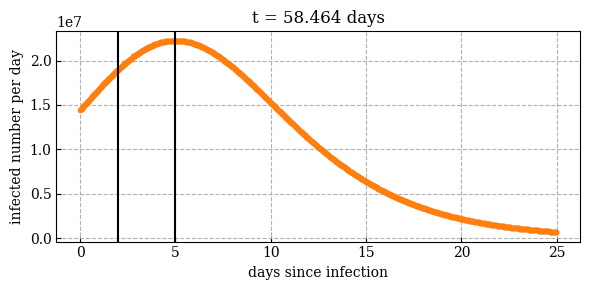
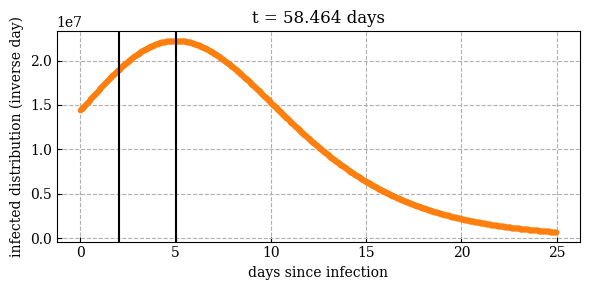
update plot label

diff --git a/plot.py b/plot.py
@@ -54,7 +54,7 @@ for fnum in range(200):
 	ax.axvline(contag_t0, color="black")
 	ax.axvline(contag_t1, color="black")
 	ax.set_xlabel("days since infection")
-	ax.set_ylabel("infected number per day")
+	ax.set_ylabel("infected distribution (inverse day)")
 	ax.set_title("t = %.3f days" % (time[-1]));
 
 	gs.tight_layout(fig)
